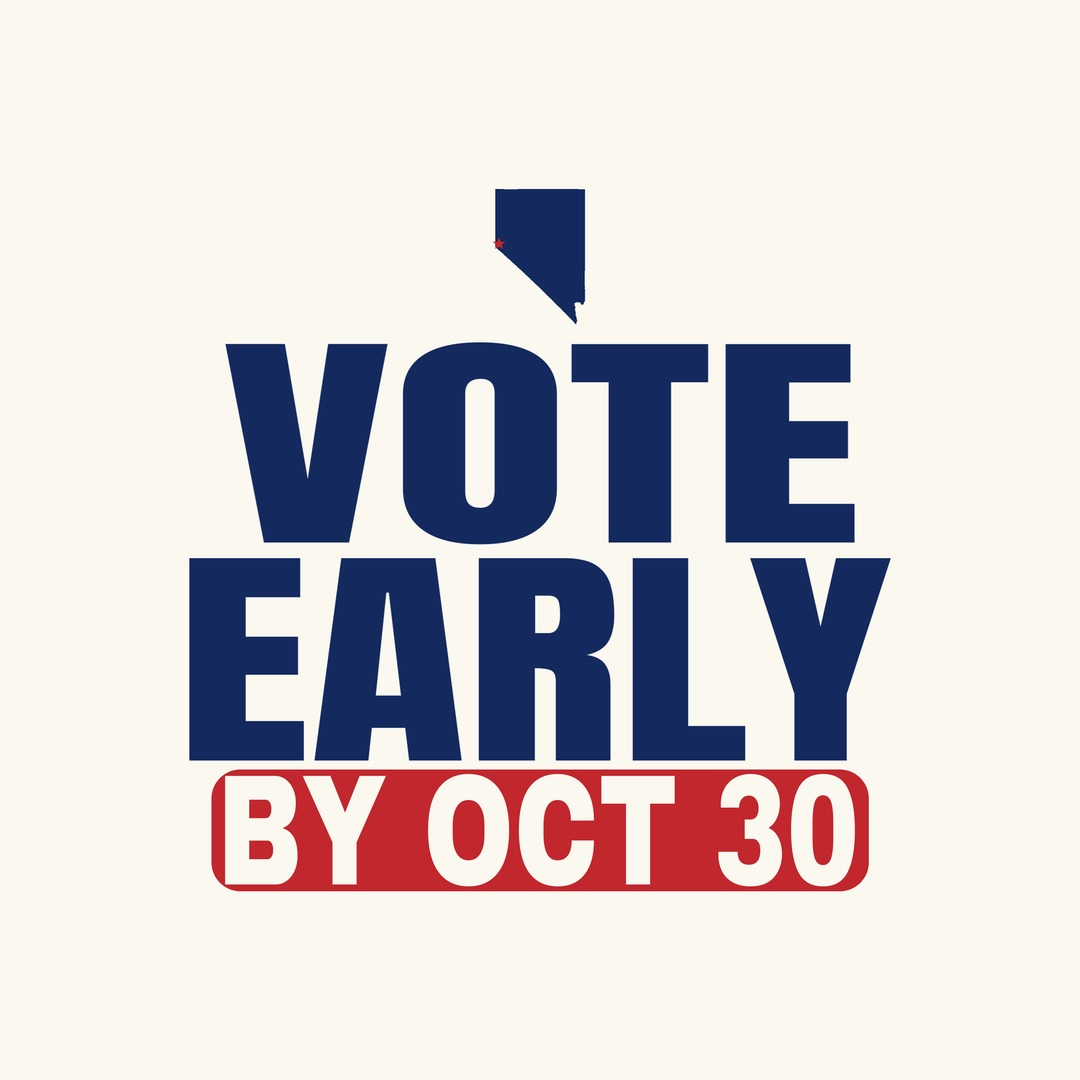
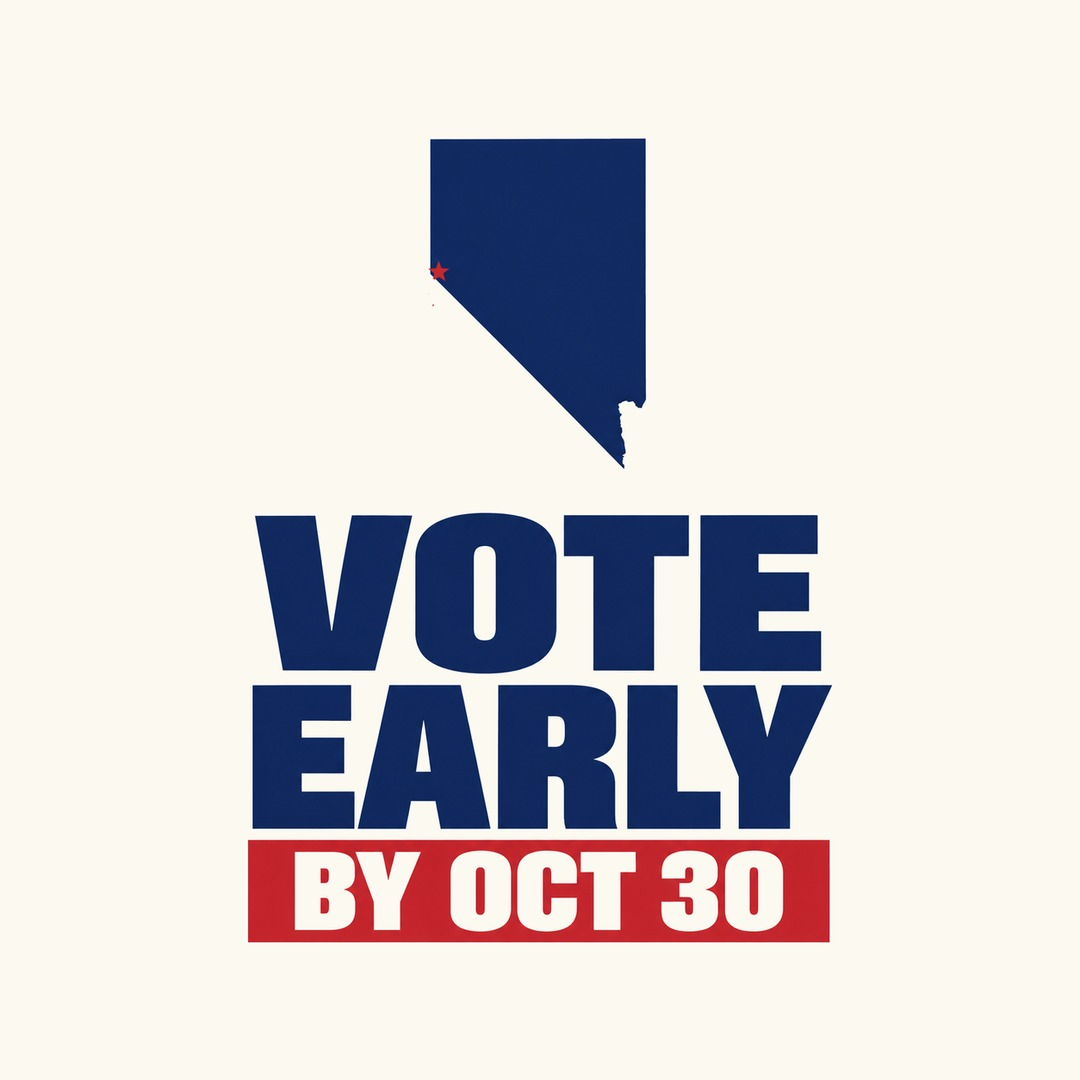
Nevada: 9 new ready-mades from Codex; retire the earlier set
Claude-Session: https://claude.ai/code/session_01U4jJBSt3CnGjJYrtPzNn5q

Changed region(s): [[0.1528, 0.1222, 0.825, 0.8861]]

diff --git a/site/index.php b/site/index.php
@@ -83,7 +83,7 @@ function vote_files( $abbr ) {
 
 // The state hero shows one standout ready-made, tilted (October 20, Garrett): the design named here,
 // or the first in the set. Numbers match <abbr>-vote-N.jpg.
-const VOTE_HERO = array( 'MS' => 5, 'MI' => 7, 'ID' => 7, 'NJ' => 5, 'OR' => 5, 'MN' => 6, 'NE' => 6, 'AL' => 6, 'AZ' => 6, 'CT' => 7, 'DE' => 5, 'GA' => 5, 'FL' => 5, 'HI' => 6, 'IL' => 8, 'AR' => 6, 'IN' => 5, 'KY' => 8, 'ME' => 6, 'LA' => 6, 'IA' => 8, 'MA' => 5, 'MT' => 5 );
+const VOTE_HERO = array( 'MS' => 5, 'MI' => 7, 'ID' => 7, 'NJ' => 5, 'OR' => 5, 'MN' => 6, 'NE' => 6, 'AL' => 6, 'AZ' => 6, 'CT' => 7, 'DE' => 5, 'GA' => 5, 'FL' => 5, 'HI' => 6, 'IL' => 8, 'AR' => 6, 'IN' => 5, 'KY' => 8, 'ME' => 6, 'LA' => 6, 'IA' => 8, 'MA' => 5, 'MT' => 5, 'NV' => 8 );
 function vote_hero_file( $abbr ) {
 	$n = VOTE_HERO[ $abbr ] ?? 0;
 	$k = strtolower( $abbr );
